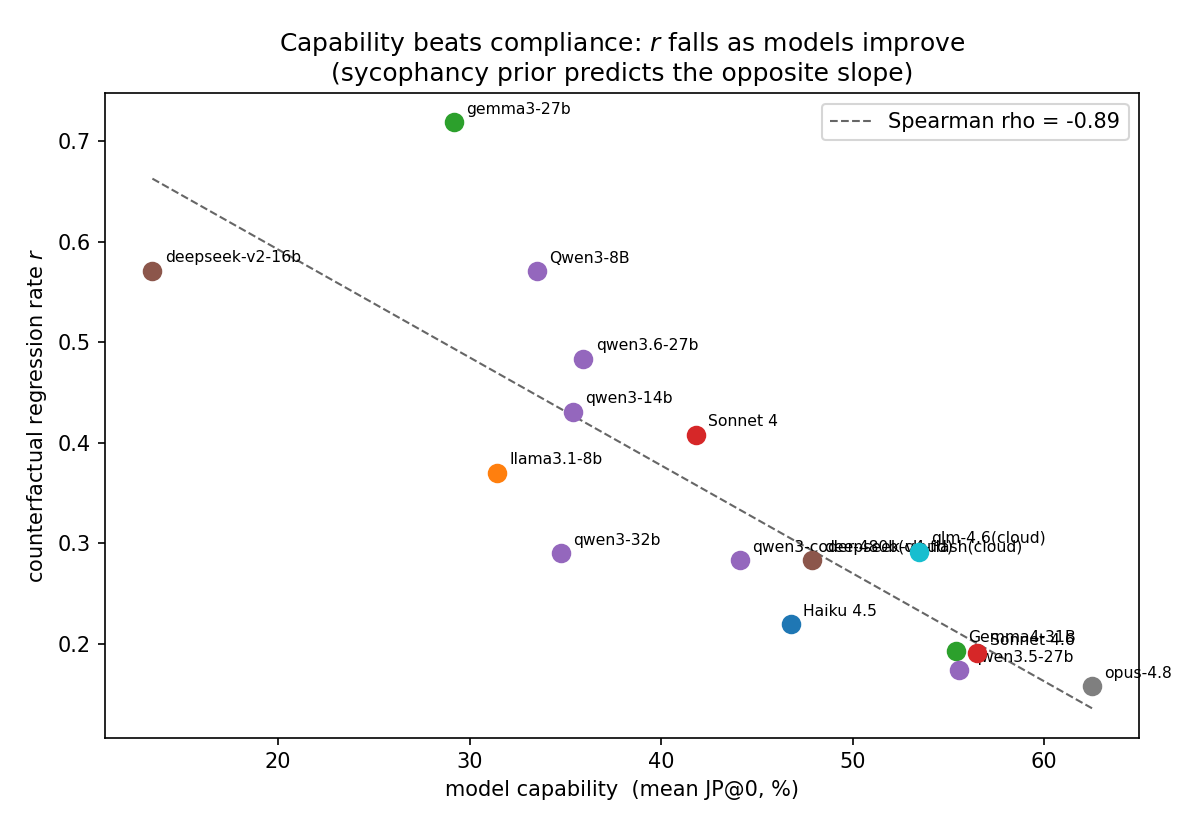
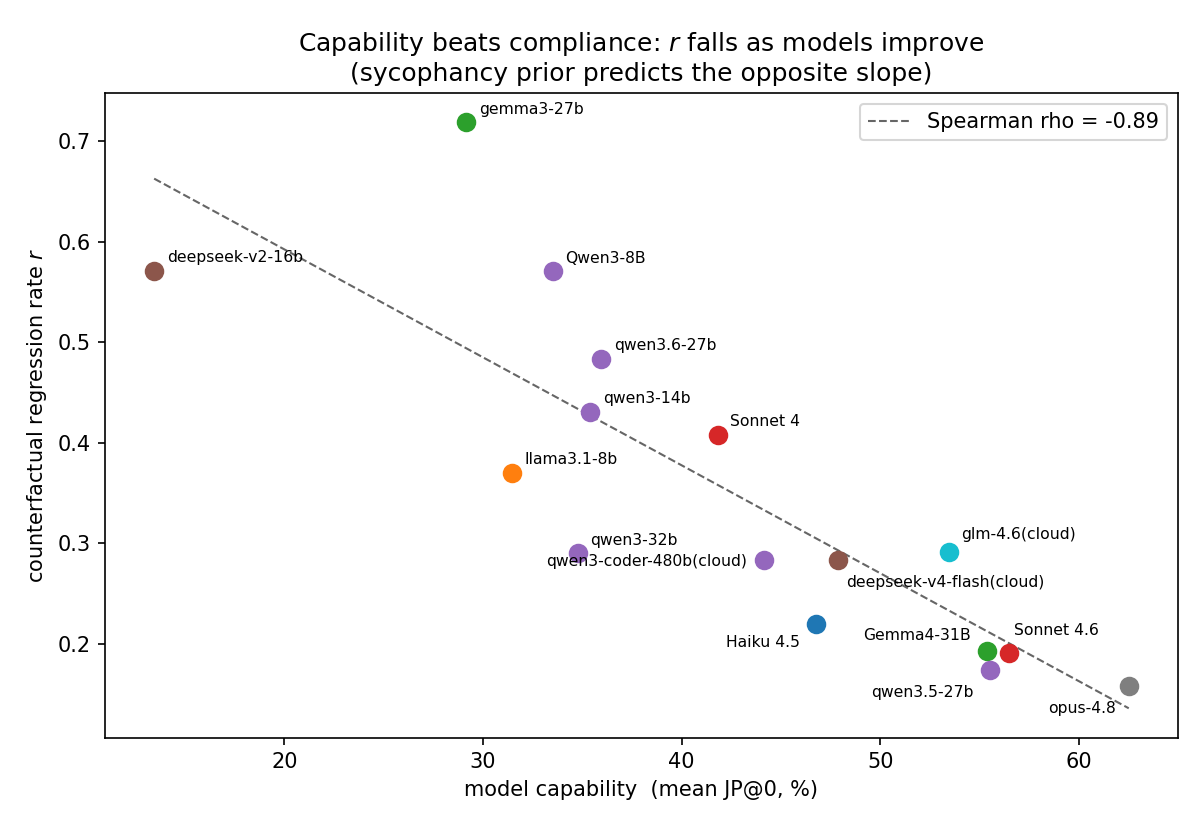
Fix overlapping labels in the r-law figure (per-model label nudges)

diff --git a/scripts/r_capability.py b/scripts/r_capability.py
@@ -166,12 +166,26 @@ def main() -> None:
         fam = {"haiku": "#1f77b4", "sonnet": "#d62728", "gemma": "#2ca02c",
                "qwen": "#9467bd", "llama": "#ff7f0e", "deepseek": "#8c564b",
                "glm": "#17becf"}
+        # Hand-tuned per-label offsets (points) for crowded regions; keys are
+        # cohort labels. Default is right-above the marker.
+        nudge = {
+            "gemma4-31b": (-8, 5),
+            "qwen3.5-27b": (-8, -13),
+            "sonnet46": (2, 9),
+            "opus-4.8": (-6, -13),
+            "qwen3-coder-480b(cloud)": (-8, -3),
+            "deepseek-v4-flash(cloud)": (4, -13),
+            "haiku-4.5": (-8, -11),
+            "glm-4.6(cloud)": (6, 6),
+        }
         fig, ax = plt.subplots(figsize=(8, 5.5))
         for coh, c, q, r, tn, fn in rows:
             color = next((v for k, v in fam.items() if k in coh), "#7f7f7f")
             ax.scatter(c, r, s=70, color=color, zorder=3)
+            dx, dy = nudge.get(coh, (6, 4))
             ax.annotate(LABELS.get(coh, coh), (c, r), textcoords="offset points",
-                        xytext=(6, 4), fontsize=7.5)
+                        xytext=(dx, dy), fontsize=7.5,
+                        ha="right" if dx < 0 else "left")
         # OLS trend line
         n = len(caps)
         mx, my = mean(caps), mean(rs)